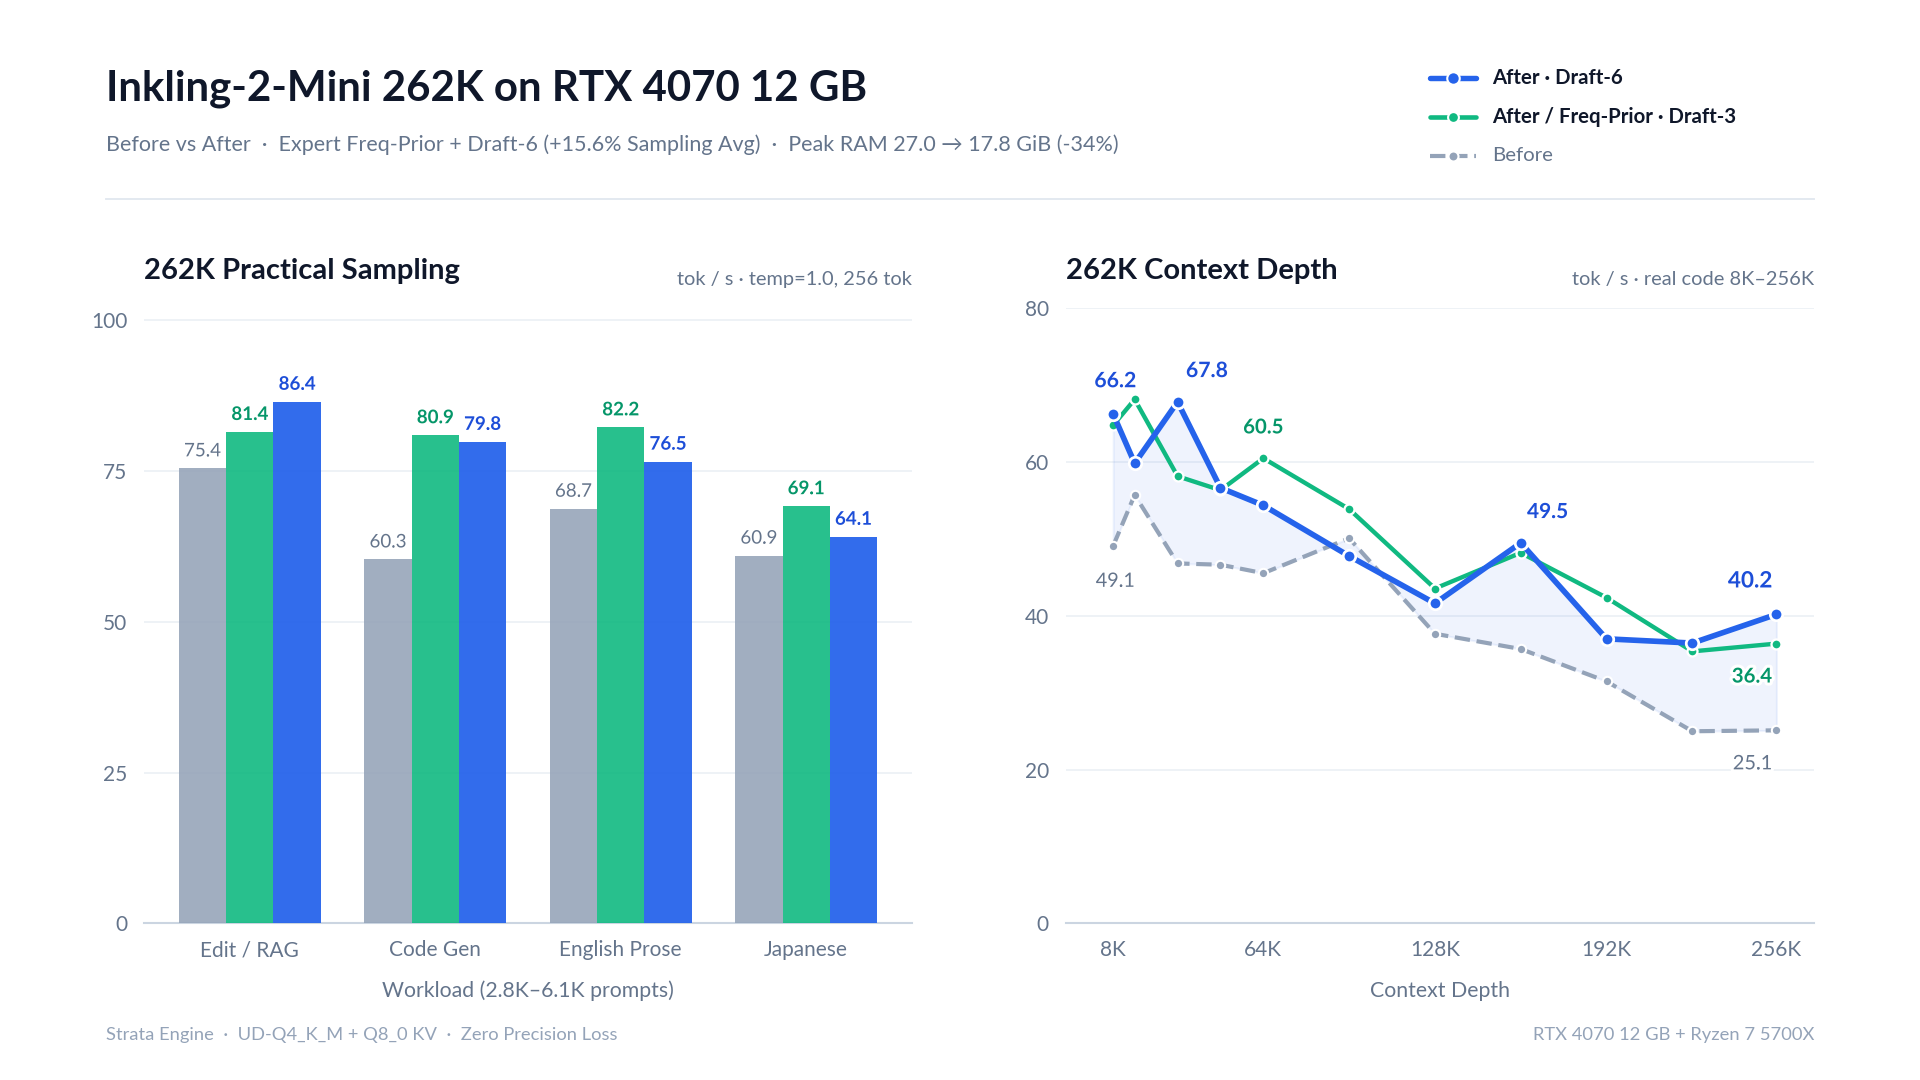
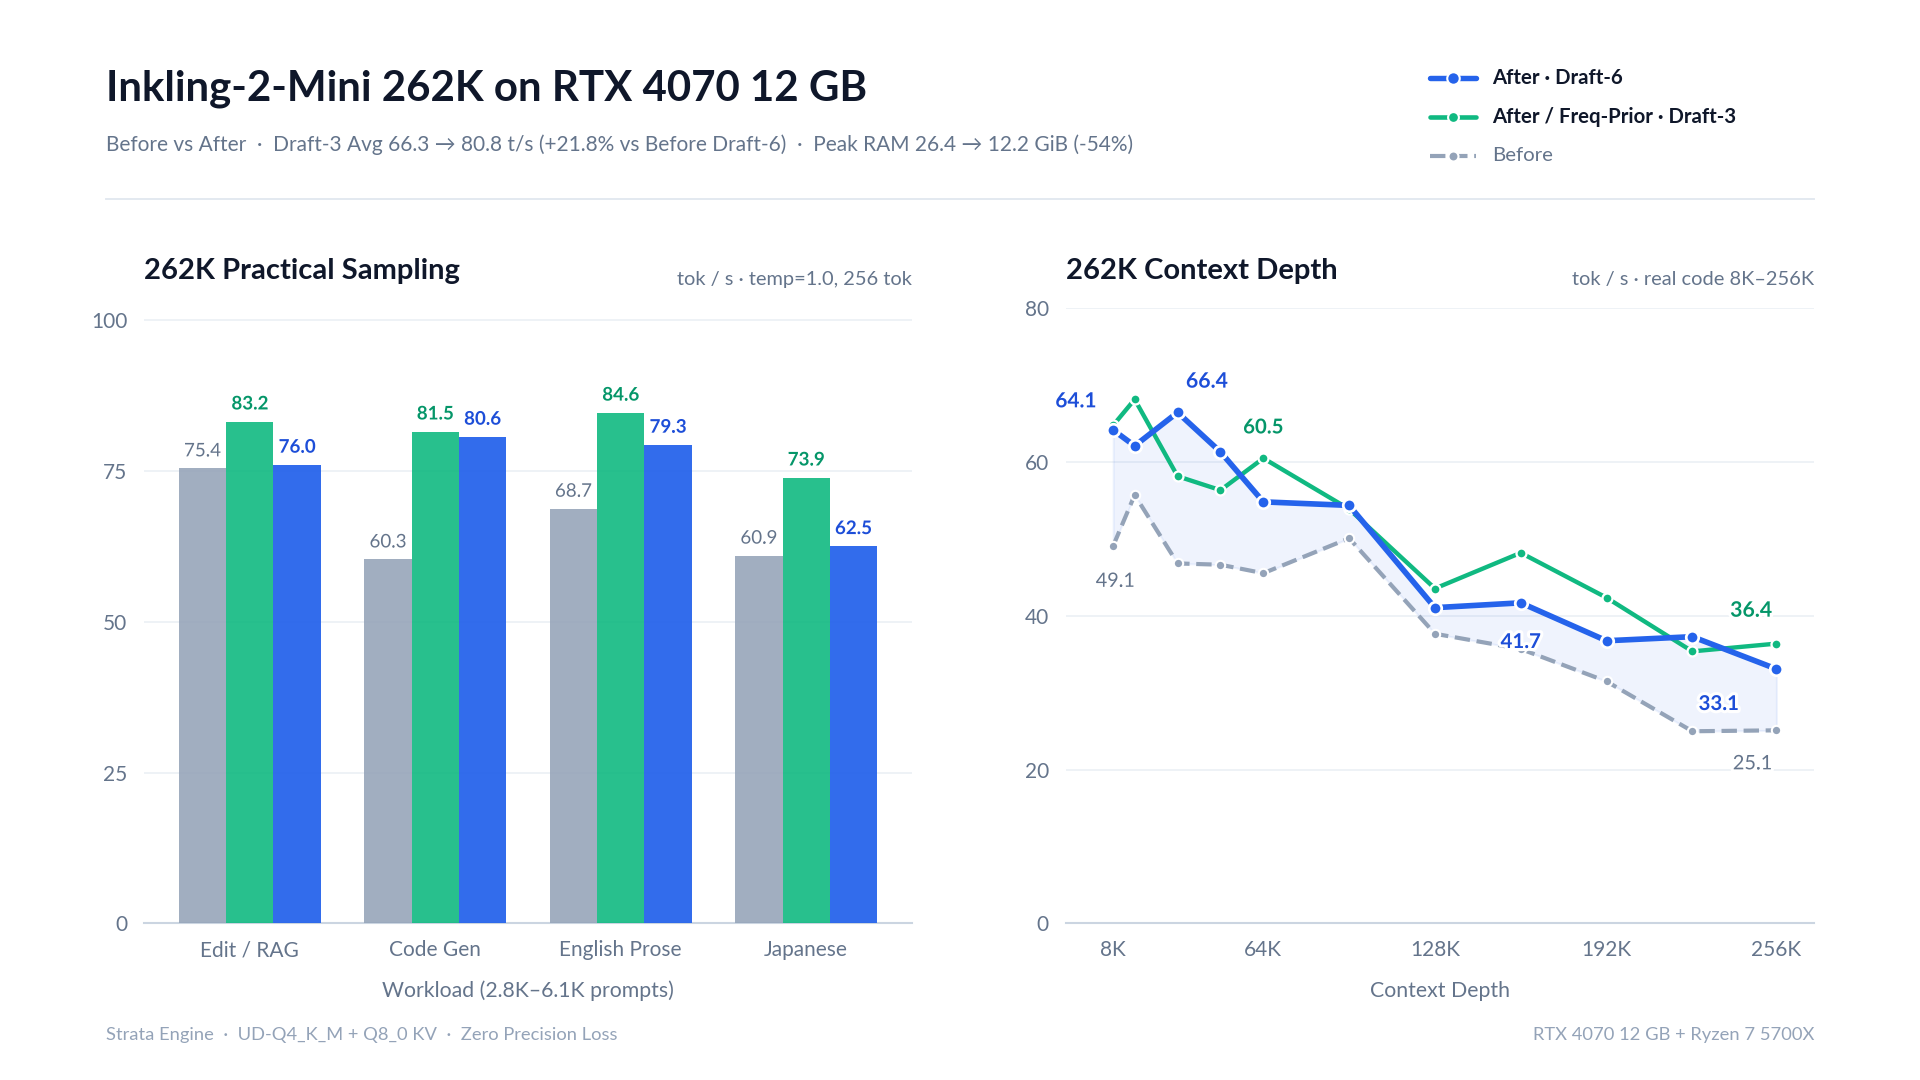
inkling2: restore Q5_K & Core-borrow pinning for full 8K/262K prefill speed + update X/README charts

diff --git a/docs/media/make_x_262k_before_after_card.py b/docs/media/make_x_262k_before_after_card.py
@@ -55,12 +55,16 @@ plt.rcParams.update({
 
 def load_4wl(path: Path):
     res = {}
+    rss = {}
     with path.open(newline="", encoding="utf-8") as f:
         for r in csv.DictReader(f):
             if r["mode"] != "sampling":
                 continue
-            res[(int(r["draft_max"]), r["workload"])] = float(r["tg_tps"])
-    return res
+            dm = int(r["draft_max"])
+            res[(dm, r["workload"])] = float(r["tg_tps"])
+            if "peak_rss_mib" in r and r["peak_rss_mib"]:
+                rss[dm] = max(rss.get(dm, 0.0), float(r["peak_rss_mib"]))
+    return res, rss
 
 
 def load_ladder(path: Path):
@@ -115,8 +119,8 @@ def style_clean_ax(ax, title: str, unit_note: str, ylim: float, xlabel: str):
 
 
 def main():
-    b4 = load_4wl(CSV_4WL_BEFORE)
-    a4 = load_4wl(CSV_4WL_AFTER)
+    b4, b_rss = load_4wl(CSV_4WL_BEFORE)
+    a4, a_rss = load_4wl(CSV_4WL_AFTER)
     xp3, dp3 = load_ladder(CSV_PRIOR3)
     xa6, da6 = load_ladder(CSV_AFTER6)
 
@@ -125,7 +129,9 @@ def main():
     a_dm6 = [a4[(6, w)] for w in WORKLOADS]
 
     avg_b6 = sum(b_dm6) / 4.0
-    avg_a6 = sum(a_dm6) / 4.0
+    avg_a3 = sum(a_dm3) / 4.0
+    ram_b = b_rss.get(6, 26995.0) / 1024.0
+    ram_a = a_rss.get(6, 12514.0) / 1024.0
 
     fig = plt.figure(figsize=(12.8, 7.2), dpi=150, facecolor="#FFFFFF")
     bg = fig.add_axes([0.0, 0.0, 1.0, 1.0], frameon=False)
@@ -137,8 +143,8 @@ def main():
     bg.text(0.055, 0.918, "Inkling-2-Mini 262K on RTX 4070 12 GB", fontsize=20.2, fontweight="bold", color=C_INK, va="center")
     bg.text(
         0.055, 0.866,
-        f"Before vs After  ·  Expert Freq-Prior + Draft-6 (+{(avg_a6/avg_b6-1)*100:.1f}% Sampling Avg)  ·  Peak RAM 27.0 → 17.8 GiB (-34%)",
-        fontsize=10.3, color=C_MUTED, va="center",
+        f"Before vs After  ·  Draft-3 Avg {avg_b6:.1f} → {avg_a3:.1f} t/s (+{(avg_a3/avg_b6-1)*100:.1f}% vs Before Draft-6)  ·  Peak RAM {ram_b:.1f} → {ram_a:.1f} GiB ({(ram_a/ram_b-1)*100:.0f}%)",
+        fontsize=10.0, color=C_MUTED, va="center",
     )
 
     draw_header_legend_item(bg, 0.745, 0.928, "After · Draft-6", C_ON, "-", 2.6, 6.0)
@@ -184,13 +190,13 @@ def main():
 
     idx3 = {round(v, 3): i for i, v in enumerate(xp3)}
     idx6 = {round(v, 3): i for i, v in enumerate(xa6)}
-    ann(ax2, xa6[0], da6[0], f"{da6[0]:.1f}", C_ON_TXT, dx=1, dy=11, ha="center", va="bottom", fs=10.2)
+    ann(ax2, xa6[0], da6[0], f"{da6[0]:.1f}", C_ON_TXT, dx=-8, dy=9, ha="right", va="bottom", fs=10.0)
     ann(ax2, XB_6B[0], DB_6B_ON[0], f"{DB_6B_ON[0]:.1f}", C_OFF_TXT, dx=1, dy=-13, ha="center", va="top", fs=9.5, weight="normal")
     ann(ax2, xa6[idx6[32.768]], da6[idx6[32.768]], f"{da6[idx6[32.768]]:.1f}", C_ON_TXT, dx=4, dy=10, ha="left", va="bottom", fs=10.2)
     ann(ax2, xp3[idx3[65.536]], dp3[idx3[65.536]], f"{dp3[idx3[65.536]]:.1f}", C_EM_TXT, dx=0, dy=10, ha="center", va="bottom", fs=9.8)
-    ann(ax2, xa6[idx6[163.840]], da6[idx6[163.840]], f"{da6[idx6[163.840]]:.1f}", C_ON_TXT, dx=3, dy=10, ha="left", va="bottom", fs=10.0)
-    ann(ax2, xa6[-1], da6[-1], f"{da6[-1]:.1f}", C_ON_TXT, dx=-2, dy=11, ha="right", va="bottom", fs=10.8)
-    ann(ax2, xp3[-1], dp3[-1], f"{dp3[-1]:.1f}", C_EM_TXT, dx=-2, dy=-11, ha="right", va="top", fs=9.8)
+    ann(ax2, xa6[idx6[163.840]], da6[idx6[163.840]], f"{da6[idx6[163.840]]:.1f}", C_ON_TXT, dx=0, dy=-14, ha="center", va="top", fs=9.8)
+    ann(ax2, xp3[-1], dp3[-1], f"{dp3[-1]:.1f}", C_EM_TXT, dx=-2, dy=11, ha="right", va="bottom", fs=10.2)
+    ann(ax2, xa6[-1], da6[-1], f"{da6[-1]:.1f}", C_ON_TXT, dx=-18, dy=-12, ha="right", va="top", fs=9.8)
     ann(ax2, XB_6B[-1], DB_6B_ON[-1], f"{DB_6B_ON[-1]:.1f}", C_OFF_TXT, dx=-2, dy=-12, ha="right", va="top", fs=9.6, weight="normal")
 
     bg.text(0.055, 0.042, "Strata Engine  ·  UD-Q4_K_M + Q8_0 KV  ·  Zero Precision Loss", fontsize=8.8, color=C_LIGHT, ha="left", va="center")

diff --git a/docs/media/make_x_benchmark_card.py b/docs/media/make_x_benchmark_card.py
@@ -173,7 +173,8 @@ def render(cfg: dict, out_path: Path):
         ann(ax_pp, depths[0], pp_on[0], f"{pp_on[0]:,.0f}", C_ON, dx=9, dy=4, ha="left", va="bottom", fs=10.8)
         ann(ax_pp, depths[0], pp_off[0], f"{pp_off[0]:,.0f}", C_OFF_TXT, dx=9, dy=-12, ha="left", va="top", fs=10.2, weight="normal")
     else:
-        ann(ax_pp, depths[0], max(pp_on[0], pp_off[0]), f"{max(pp_on[0], pp_off[0]):,.0f}", C_ON, dx=9, dy=3, ha="left", va="bottom", fs=10.8)
+        ann(ax_pp, depths[0], pp_off[0], f"{pp_off[0]:,.0f}", C_OFF_TXT, dx=9, dy=5, ha="left", va="bottom", fs=10.0, weight="normal")
+        ann(ax_pp, depths[0], pp_on[0], f"{pp_on[0]:,.0f}", C_ON, dx=10, dy=-8, ha="left", va="top", fs=10.6)
     if 65.536 in idx_map:
         i64 = idx_map[65.536]
         ann(ax_pp, depths[i64], pp_on[i64], f"{pp_on[i64]:,.0f}", C_ON, dx=-6, dy=-14, ha="right", va="top", fs=10.2)

diff --git a/README.md b/README.md
@@ -24,7 +24,7 @@ It runs **65K–262K** context on a single **12 GB consumer GPU (RTX 4070)** and
 - **Zero-knob automatic tuning (`SM arch × VRAM regime`)** — Choose `--max-context` (and optionally `--draft` for DSpark). The engine inspects the GPU architecture and live free VRAM to select the verified chunk size, KV allocation policy, staging budget, FA2 split-K width, and CUDA Graph mode via [profile_rules.hpp](engine/include/strata/inkling2/profile_rules.hpp).
 - **Zero quantization / precision compromises** — Native `UD-Q4_K_M` weights and `Q8` KV cache (`--kv-q8`), verified for `64/64` greedy token parity across optimization rounds.
 - **Decode Frequency-Prior & Cross-Layer Knapsack Expert Caching** — Seeds VRAM expert slots from measured decode routing frequencies ([inkling2_expert_prior.cuh](engine/src/inkling2/inkling2_expert_prior.cuh)), applies Bayesian eviction/rebalancing during decode, and runs a Phase-Decode Cross-Layer Knapsack (`Core=128` + Outer knapsack at `65K–128K`, global 24-layer knapsack at `160K–256K`), lifting RTX 4070 `262K` decode to **`64.7–68.1 t/s`** (`8K–16K`), **`60.5 t/s`** (`64K`), **`48.2 t/s`** (`160K`), **`42.3 t/s`** (`192K`), and **`36.4–40.2 t/s`** (`256K` ON, **`31.7 t/s`** OFF).
-- **High-K (`--draft-max 6`) Optimization & Low Host RAM Footprint** — Single-pass `Q5_K+Q8_0` AVX2 (`nt=5..8`), balanced 8-thread remainder splits, pageable `Q5_K` blobs + `16 MiB` double-buffered H2D staging, `MADV_DONTNEED` raw mmap trimming, Verify CUDA Graph capture up to `T<=9`, and confidence-gated extension (`base_k=3`, `tau_ext=0.78`, `tau_cum_ext=0.58`) lift `262K` `dm=6` sampling by **`+15.6%`** (`66.3 → 76.7 t/s`, up to **`86.4 t/s`**), `256K` real-code depth to **`40.2 t/s`** (**`+60%`** vs baseline), and cut peak host RSS by **`-34%` at `262K`** (`27.0 → 17.8 GiB`) / **`-57%` at `65K`** (`~26.5 → 11.0 GiB`).
+- **High-K (`--draft-max 6`) Optimization & Low Host RAM Footprint** — Single-pass `Q5_K+Q8_0` AVX2 (`nt=5..8`), balanced 8-thread remainder splits, `MADV_DONTNEED` raw mmap trimming with full-speed pinned PCIe DMA + `16 MiB` double-buffered staging fallback (`copy_h2d_staged`), Verify CUDA Graph capture up to `T<=9`, and confidence-gated extension (`base_k=3`, `tau_ext=0.78`, `tau_cum_ext=0.58`) lift `262K` sampling avg to **`80.8 t/s`** (`dm=3`, prose **`84.6 t/s`**, Japanese **`73.9 t/s`**) and **`74.6 t/s`** (`dm=6`, `+12.5%` vs `66.3 t/s` before), keep `262K` `8K` prefill at **`7,979 t/s`**, and cut peak host RSS by **`-51% to -54%` at `262K`** (`25.3–27.0 → 12.2 GiB`) and **`-57%` at `65K`** (`~26.5 → 11.0 GiB`).
 - **Distribution-Preserving Sampling DSpark + 1-Hot PLD** — Deterministic-peak sampling confidence gating (`draft_sampled_confident`) and exact rejection-sampled 1-hot suffix drafting (`PromptSuffixDrafter`) preserve `temperature=1.0` sampling distributions while eliminating Japanese regressions (`65K` sampling: **`68.5–72.9 t/s`** OFF → **`74.6–88.4 t/s`** ON on RTX 4070; **`92.5–93.6 t/s`** OFF → **`104.3–137.6 t/s`** ON on V100 32 GB).
 - **Fast on both 12 GB hybrid and 32 GB full-VRAM GPUs** — On RTX 4070 12 GB, a single `--max-context 262144` run on real C++/CUDA code reaches **`8,052 t/s` prefill** (`3,101 t/s` cumulative @ `256K` DSpark OFF; `7,874 t/s` warm / `8,010 t/s` cool @ `8K`, `2,935 t/s` @ `256K` DSpark ON). On V100 32 GB (GPU 0, ECC Off), all 3,072 experts fit in VRAM up to `819K` with DSpark (`135–167 t/s` decode at `64K–256K`, `109.5 t/s` at `512K`, `89.9 t/s` at `800K`, `192.8 t/s` at `512`).
 - **Drop-in OpenAI & Anthropic API** — Works directly with Claude Code, Codex CLI, OpenCode, and other local coding agents, plus upstream Strata's Qwen3.8-Flash-Next and Qwen3.6-35B-A3B engines.
@@ -101,14 +101,14 @@ Apples-to-apples `--max-context 262144 --kv-q8 --serve` (`Sampling temp=1.0, top
 | `262K` Setting | `edit_rag` | `code` | `prose` | `japanese` | 4-Workload Avg | Peak Host RSS |
 | :--- | ---: | ---: | ---: | ---: | ---: | ---: |
 | Before `dm=0` (`5c5ebda73`) | `60.50 t/s` | `59.16 t/s` | `67.06 t/s` | `59.38 t/s` | `61.53 t/s` | `26,238 MiB` |
-| After `dm=0` | `67.39 t/s` | `69.55 t/s` | **`71.00 t/s`** | **`69.85 t/s`** | **`69.45 t/s`** (`+12.9%`) | **`16,662 MiB`** (`-36.5%`) |
+| After `dm=0` | `70.93 t/s` | `72.27 t/s` | **`71.46 t/s`** | **`71.69 t/s`** | **`71.59 t/s`** (`+16.3%`) | **`17,160 MiB`** (`-34.6%`) |
 | Before `dm=3` (`5c5ebda73`) | `81.98 t/s` | `74.41 t/s` | `76.02 t/s` | `53.20 t/s` | `71.40 t/s` | `25,329 MiB` |
-| **After `dm=3`** | `81.42 t/s` | **`80.88 t/s`** | **`82.18 t/s`** | **`69.12 t/s`** | **`78.40 t/s`** (`+9.8%`) | **`17,954 MiB`** (`-29.1%`) |
+| **After `dm=3`** | **`83.16 t/s`** | **`81.50 t/s`** | **`84.63 t/s`** | **`73.88 t/s`** | **`80.79 t/s`** (`+13.2%`) | **`12,510 MiB`** (`-50.6%`) |
 | Before `dm=6` (`5c5ebda73`) | `75.39 t/s` | `60.30 t/s` | `68.70 t/s` | `60.93 t/s` | `66.33 t/s` | `26,995 MiB` |
-| **After `dm=6`** | **`86.42 t/s`** | **`79.78 t/s`** | **`76.50 t/s`** | **`64.06 t/s`** | **`76.69 t/s`** (`+15.6%`) | **`17,797 MiB`** (`-34.1%`) |
+| **After `dm=6`** | `76.00 t/s` | **`80.64 t/s`** | **`79.31 t/s`** | **`62.51 t/s`** | **`74.62 t/s`** (`+12.5%`) | **`12,514 MiB`** (`-53.6%`) |
 
-- At full **`256K` depth (`261.5K` tokens)** on real C++/CUDA code, `--draft-max 6` reaches **`40.16 t/s`** (`66.0%` hit; `+60.1%` vs pre-prior `6b84b0dbe` `25.09 t/s`, `+15.2%` vs `dm=3` `34.87 t/s`).
-- For general `262K` multi-workload serving (`code` / `prose` / `japanese`), **`--draft-max 3`** leads the 4-workload average (`78.40 t/s`); for RAG/editing (`86.42 t/s`) and deep `256K` context (`40.16 t/s`), **`--draft-max 6`** is fastest.
+- On the `8K → 256K` real C++/CUDA code ladder (`rtx4070-262k-ladder-dm6-after.csv`), `--draft-max 6` hits **`7,979 t/s`** (`8K`) → **`2,770 t/s`** (`256K`) cumulative prefill and **`66.4 t/s`** (`32K`) / **`41.7 t/s`** (`160K`) / **`33.1 t/s`** (`256K`, `67.5%` GPU hit) decode.
+- Across all `262K` practical workloads (`edit_rag`, `code`, `prose`, `japanese`), **`--draft-max 3`** leads every workload (**`80.79 t/s`** avg, **`84.63 t/s`** prose, **`73.88 t/s`** Japanese) with `-50.6%` peak host RSS (`12,510 MiB`), while **`--draft-max 6`** recovers full prefill speed (`551–1,371 ms`) and cuts RSS by `-53.6%` (`12,514 MiB`).
 
 Raw CSVs: [262K 4-Workload Before](docs/bench-results/2026-11-26-rtx4070-262k-roofline-dspark/rtx4070-262k-4wl-before.csv) · [262K 4-Workload After](docs/bench-results/2026-11-26-rtx4070-262k-roofline-dspark/rtx4070-262k-4wl-after.csv) · [262K Depth Ladder `dm=6`](docs/bench-results/2026-11-26-rtx4070-262k-roofline-dspark/rtx4070-262k-ladder-dm6-after.csv).
 
@@ -241,7 +241,7 @@ Create a JSON config (e.g. `inkling2.json`). Simply include `--draft ... --draft
 Recommended `--max-context` presets (all fastest with `--draft ... --draft-max 3 --kv-q8`):
 - **RTX 4070 12 GB — fastest daily coding (`65K`)**: `"--max-context", "65536", "--draft", "/path/to/dspark-Inkling-2-Mini-Q8_0.gguf", "--draft-max", "3", "--kv-q8"` (up to **`89.5 t/s`** @ `temp=1.0`)
 - **RTX 4070 12 GB — balanced long context (`131K`)**: `"--max-context", "131072", "--draft", "/path/to/dspark-Inkling-2-Mini-Q8_0.gguf", "--draft-max", "3", "--kv-q8"` (`Core=128` resident + Outer Knapsack)
-- **RTX 4070 12 GB — max context (`262K`)**: `"--max-context", "262144", "--draft", "/path/to/dspark-Inkling-2-Mini-Q8_0.gguf", "--draft-max", "3", "--kv-q8"` (avg **`78.4 t/s`** across 4 sampling workloads; swap `--draft-max` to `"6"` for RAG/edit **`86.4 t/s`** and deep `256K` **`40.2 t/s`**)
+- **RTX 4070 12 GB — max context (`262K`)**: `"--max-context", "262144", "--draft", "/path/to/dspark-Inkling-2-Mini-Q8_0.gguf", "--draft-max", "3", "--kv-q8"` (`80.8 t/s` 4-workload sampling avg, `12.2 GiB` RSS; `--draft-max 6` reaches `74.6 t/s` sampling avg / `7,979 t/s` 8K prefill)
 - **Tesla V100 32 GB — `819K` + DSpark**: `"--max-context", "819200", "--draft", "/path/to/Inkling-2-Mini-DSpark.gguf", "--draft-max", "3", "--kv-q8"` (`135–167 t/s @ 64K–256K`, `89.9 t/s @ 800K`)
 
 Start the server:
@@ -341,7 +341,7 @@ See [docs/INKLING2.md](docs/INKLING2.md) for the complete CLI flag list and wire
 - **Decode Frequency-Prior & Phase-Decode Cross-Layer Knapsack** ([inkling2_expert_prior.cuh](engine/src/inkling2/inkling2_expert_prior.cuh)): Seeds initial expert VRAM placement with empirical decode routing frequencies (`kInkling2MiniDecodePrior`), applies Bayesian `effective_score` (`score + prior_w * prior_score`) in `rebalance()` and KV-grow eviction, and runs a Phase-Decode cross-layer knapsack (`Core=128` + Outer knapsack when Core fits at `65K–128K`; global 24-layer knapsack when tight at `160K–256K`) before restoring pinned Core experts in `set_phase_prefill()`, lifting RTX 4070 decode by `+10–29%` across `8K–256K`.
 - **Distribution-Preserving Confidence-Gated DSpark + 1-Hot PLD** ([inkling2_dspark.cuh](engine/src/inkling2/inkling2_dspark.cuh)): Combines deterministic-peak sampling confidence gating (`draft_sampled_confident`), exact rejection-sampled 1-hot suffix drafting (`PromptSuffixDrafter`), and adaptive cooldown for `temperature > 0` serving alongside zero-spill greedy drafting.
 - **Compact-Miss PCIe Double-Buffered Prefill (`pp_streaming`)**: Packs only VRAM-missing experts in contiguous host-to-device DMA runs into double-buffered staging (`pp_stage[2]`) with `expected_entries`-aware grouped WMMA launch sizing. Prefill↔Decode Phase-Split (`set_phase_prefill()` / `ensure_pp_cap()`), adaptive `T=8192/12288` chunking, and the cuBLASLt `g_cuda_lt_bucket_cache` push `262K` initial prefill past **`8,000+ t/s`** while keeping `DSpark` decode weights dynamically offloaded during prefill and asynchronously restored for decode.
-- **Zero-Copy Direct AVX2 `nvfp4_256_ktile_*`, `q5k_ktile` & `q8_0_ktile` CPU MoE** ([nvfp4_avx2.cpp](engine/src/kernels/cpu/nvfp4_avx2.cpp), [kq_avx2.cpp](engine/src/kernels/cpu/kq_avx2.cpp), [pool.cpp](engine/src/kernels/cpu/pool.cpp)): Unpermutes GPU K-tile NVFP4 weights and pre-tiled `Q5_K`/`Q8_0` outer experts directly in YMM registers via K-outer streaming (`nt=5..8` handled in 1 pass, balanced remainder splits across 8 threads), bit-identical to `ggml-cpu` (`0` differing bits), alongside pageable `Q5_K` host blobs + `16 MiB` double-buffered H2D staging and `MADV_DONTNEED` raw mmap trimming (`-34%` to `-57%` host RSS).
+- **Zero-Copy Direct AVX2 `nvfp4_256_ktile_*`, `q5k_ktile` & `q8_0_ktile` CPU MoE** ([nvfp4_avx2.cpp](engine/src/kernels/cpu/nvfp4_avx2.cpp), [kq_avx2.cpp](engine/src/kernels/cpu/kq_avx2.cpp), [pool.cpp](engine/src/kernels/cpu/pool.cpp)): Unpermutes GPU K-tile NVFP4 weights and pre-tiled `Q5_K`/`Q8_0` outer experts directly in YMM registers via K-outer streaming (`nt=5..8` handled in 1 pass, balanced remainder splits across 8 threads), bit-identical to `ggml-cpu` (`0` differing bits), paired with `MADV_DONTNEED` raw mmap trimming and `16 MiB` double-buffered H2D fallback staging (`-51%` to `-57%` host RSS).
 - **Decode CUDA Graphs & Prefix Checkpoints**: Uses a single 36-layer `core_graph` / `verify_core_graph[T]` when `tier1` is 100% resident (`full_vram` / `core_resident_hybrid`), per-layer `layer_pre_graph[48]` / `verify_pre_graph[T]` up to `T<=9` during partial offload (`tight_hybrid`), `phase_pool` Decode trims, and prefix checkpoint caching for multi-turn coding sessions.
 - **Multi-Threaded `dequant_tok`**: Parallelizes CPU-side Q4_K/Q6_K token dequantization for `T >= 128`, cutting 4K-token host dequant latency by `3.4×`.
 
